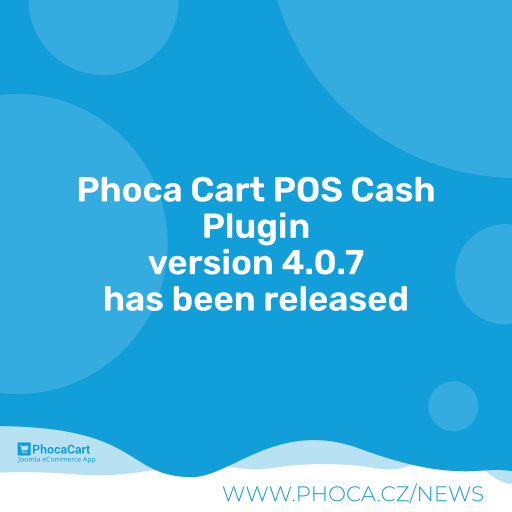
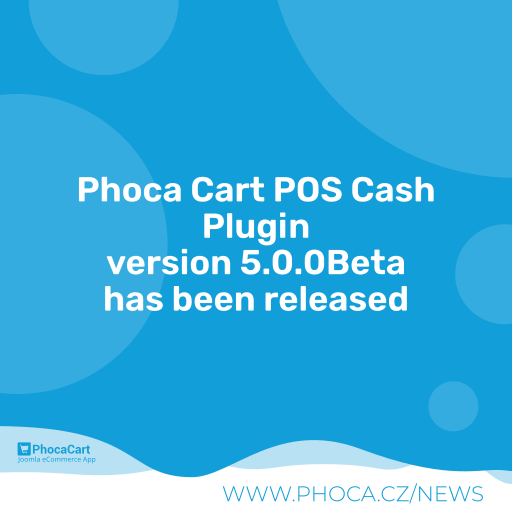
4.0.9

Changed region(s): [[0.1875, 0.4688, 0.8125, 0.5625]]

diff --git a/pos_cash.php b/pos_cash.php
@@ -8,17 +8,19 @@
  */
 
 defined('_JEXEC') or die;
+use Joomla\CMS\Language\Text;
+use Joomla\CMS\Plugin\CMSPlugin;
 jimport( 'joomla.plugin.plugin' );
 jimport( 'joomla.filesystem.file');
 jimport( 'joomla.html.parameter' );
 
 JLoader::registerPrefix('Phocacart', JPATH_ADMINISTRATOR . '/components/com_phocacart/libraries/phocacart');
 
-class plgPCPPos_Cash extends JPlugin
+class plgPCPPos_Cash extends CMSPlugin
 {
-	
+
 	protected $name 	= 'pos_cash';
-	
+
 	function __construct(& $subject, $config) {
 		parent :: __construct($subject, $config);
 	}
@@ -33,7 +35,7 @@ class plgPCPPos_Cash extends JPlugin
 	 */
 
 	function onPCPonDisplayPaymentPos(&$output, $t, $eventData) {
-		
+
 		if (!isset($eventData['pluginname']) || isset($eventData['pluginname']) && $eventData['pluginname'] != $this->name) {
 			return false;
 		}
@@ -59,7 +61,7 @@ class plgPCPPos_Cash extends JPlugin
 		$s[] = '})';
 
 	// 	Loaded BY AJAX, needs to be set inside body
-	//	JFactory::getDocument()->addScriptDeclaration(implode("\n", $s));
+	//	Factory::getDocument()->addScriptDeclaration(implode("\n", $s));
 
 		$totalAmount = 0;
 		if ($total[0]['brutto_currency'] !== 0) {
@@ -77,7 +79,7 @@ class plgPCPPos_Cash extends JPlugin
 
 
 		$o[] = '<div class="row-item col-sm-3 col-md-3">';
-		$o[] = '<div class="ph-pos-payment-item-txt">' . JText::_('COM_PHOCACART_AMOUNT_TENDERED').'</div>';
+		$o[] = '<div class="ph-pos-payment-item-txt">' . Text::_('COM_PHOCACART_AMOUNT_TENDERED').'</div>';
 		$o[] = '</div>';
 
 		$o[] = '<div class="row-item col-sm-3 col-md-3">';
@@ -102,7 +104,7 @@ class plgPCPPos_Cash extends JPlugin
 
 
 		$o[] = '<div class="row-item col-sm-3 col-md-3">';
-		$o[] = '<div class="ph-pos-payment-item-txt">' . JText::_('COM_PHOCACART_CHANGE') . '</div>';
+		$o[] = '<div class="ph-pos-payment-item-txt">' . Text::_('COM_PHOCACART_CHANGE') . '</div>';
 		$o[] = '</div>';
 
 		$o[] = '<div class="row-item col-sm-3 col-md-3">';
@@ -124,7 +126,7 @@ class plgPCPPos_Cash extends JPlugin
 
 
 	function onPCPbeforeSaveOrder(&$statusId, $pid, $eventData) {
-		
+
 		if (!isset($eventData['pluginname']) || isset($eventData['pluginname']) && $eventData['pluginname'] != $this->name) {
 			return false;
 		}

diff --git a/README.MD b/README.MD
@@ -60,7 +60,11 @@ Phoca Cart Payment - POS Cash Plugin - payment method for Phoca Cart component. 
 
 ## Version (Joomla! 4.x)
 
-4.0.7
+4.0.9
+
+## Version (Joomla! 5.x)
+
+5.0.0Beta
 
 
 
@@ -71,3 +75,17 @@ GNU/GPL
 
 
 This project is open source project - feel free to contribute! Thank you.
+
+
+
+## Social Media
+
+- [Phoca on Facebook](https://www.facebook.com/Phoca.cz)
+
+- [Phoca on X (Twitter)](https://twitter.com/PhocaCz)
+
+- [Phoca on YouTube](https://www.youtube.com/user/phocavideos)
+
+- [Phoca on GitHub](https://github.com/PhocaCz)
+
+- [Phoca on Reddit](https://www.reddit.com/user/PhocaCz)
